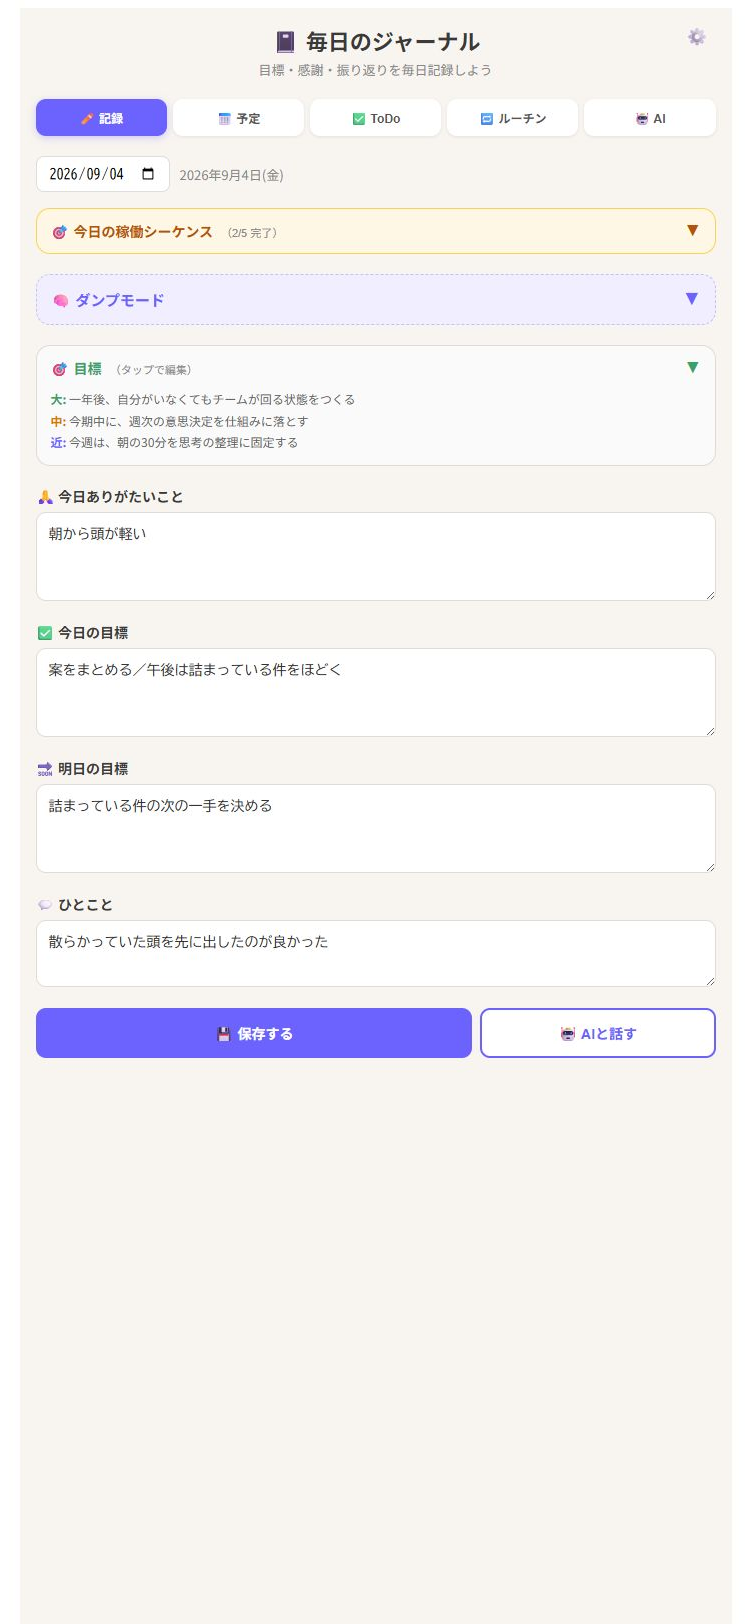
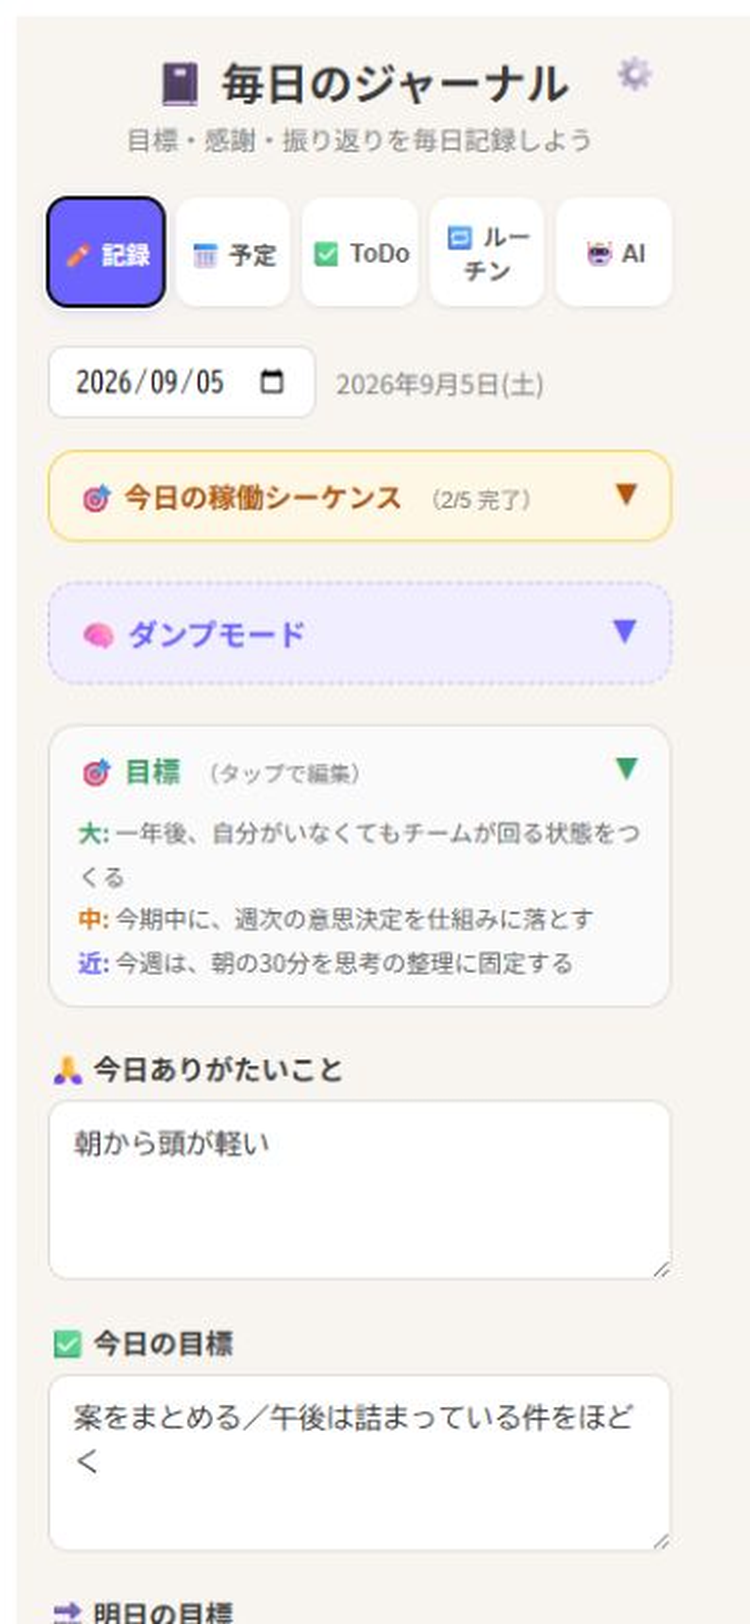
feat(landing): LP素材をモバイルレイアウトで撮り直し（公開可能な状態に）
実装は Codex、検証は Claude Code。

7枚とも本物のPNG・750x1624 で、今回はビューポート375pxのモバイルレイアウトで
撮られている（タブが「ルー／チン」と2行に折り返しているのを確認）。
これにより端末モック内の文字が読めるようになった。前回は750px幅で撮っていたため
判読不能だった。

内容も当日日付・稼働シーケンス2/5完了・AIがデモデータの実タスクを参照した日本語返答で、
英語混入と期限切ればかりの問題は解消している。index.html / styles.css は無変更。

軽微な未対応: 2枚にプログラム操作由来の黒いフォーカス枠が残る。追記62に記録。

diff --git a/.agents/STATE.md b/.agents/STATE.md
@@ -1733,3 +1733,26 @@ EvJou AIを利用すると、日記の内容が開発者のサーバーへ送信
   **正しい撮り方**: **レイアウトは375px、画素だけ2倍**。
   **判定は簡単で、タブが「ルー／チン」と2行に折り返していれば正しい。**
   ビューポートを広げて750pxにしてはいけない。
+
+- **2026-09-05 / Claude Code（追記62・LP素材の最終検証。合格）**
+  追記61 の撮り直しを検証した。**3回かかったが、これで LP は公開できる状態になった。**
+
+  | 項目 | 結果 |
+  |---|---|
+  | 形式・解像度 | **7枚とも本物のPNG・750×1624**（進行役がヘッダを読んで確認） |
+  | **レイアウト** | **モバイル表示で撮れている。** `shot_sequence.png` と `shot_ai_chat.png` を開いて、**タブが「ルー／チン」と2行に折り返している**ことを確認した |
+  | 内容 | 日付は当日（2026/09/05）。`今日の稼働シーケンス（2/5 完了）`で完了済み2件が緑。**期限切ればかりだった問題も、英語混入も解消** |
+  | AI応答画面 | デモデータの実タスク（提案資料の骨子／詰まっている件の次の一手／夕方の振り返り）を参照した日本語の返答 |
+  | LP上の見え方 | **端末モックの中身が読めるようになった**（前回は判読不能）。8枚とも欠落なし、750px素材を327〜381pxで表示＝**約2倍密度** |
+  | 横方向のはみ出し | なし |
+  | 変更範囲 | `landing/assets/` の7枚のみ。`index.html` / `styles.css` は差分ゼロ（指示どおり） |
+
+  **★ 残る軽微な点（未対応・公開の判断はユーザー）**:
+  `shot_sequence.png` と `shot_ai_chat.png` に、プログラム操作で押したボタンの
+  **黒いフォーカス枠**が残っている。宣材としてはわずかに気になるが、
+  LP上では約330px幅に縮むため細い線として見える程度。**次に素材を触るときに直せばよい。**
+
+  **★ 進行役の発注ミス（記録）**: 「書き込んでよいのは `landing/assets/` 配下のみ」と書きながら
+  `node docs/gen-demo-data.mjs`（`docs/` へ書き込む）を実行させる矛盾した指示を出した。
+  Codex は `EPERM` を踏み、一時領域で生成して回避した。**判断は妥当。**
+  `docs/demo-data.json` は内容が HEAD と同一（差分は改行コードのみ）だったので進行役が戻した。
